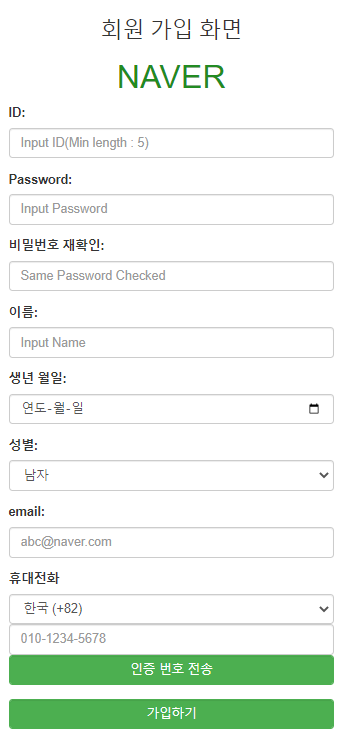
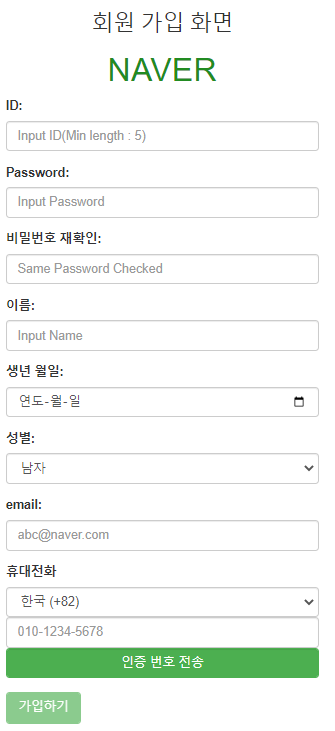
Uploade Day29.md

diff --git a/MultiCampus/Day28.md b/MultiCampus/Day28.md
@@ -6,11 +6,11 @@
 >
 > 
 
-## 1. AJAX
+## 1. AJAX ( Asynchronous JavaScript And XML )
    1. ### AJAX 란?
       
-      1. **비동기 방식** 으로 통신하는 방법
-      2. AJAX( Asynchronous JavaScript And XML )
+      1. **비동기 방식** 으로 통신하는 방법으로, 현재 화면을 유지하면서 특정 부분만 데이터를 받아와서 변경해준다. 
+      2. 
       3. 2005년에 만들어진 비동기 통신을 지원하는 새로운 방식이다. 
       4. 새로운 언어가 아닌 JavaScript에 추가된 통신 방식이다. 
       5. **화면 전체 (html파일) 를 재로드 하지 않고도 서버에서 특정 데이터를 송수신 할 수 있다. **
@@ -43,8 +43,8 @@
         
         function getdata(txt){
         	$.ajax({
-        		url:'search',//서버에게 data 변수 s로 데이터를 보낸다. 
-        		data:{'s':txt,},
+        		url:'search',
+        		data:{'s':txt,},//서버에게 data 변수 s로 데이터를 보낸다. 
         		success:function(data){
         			//연결에 성공하면 실행 data에는 controller에서 리턴한 값이 들어간다. 
         			display(data);
@@ -62,7 +62,17 @@
         
         ```
       
-      - 
+      - ```java
+        @RestController//AJAX 통신에 적합한 애너테이션 -> @Controller와 다름 
+        public class AJAXController {
+        	@RequestMapping("/gettime")
+        	public Object gettime() {
+        		Date d = new Date();
+        		SimpleDateFormat sdf = new SimpleDateFormat("yyyy-MM-dd hh:mm:ss");
+        		return "서버시간 " + sdf.format(d);
+        	}
+        }
+        ```
 
 ## 2. Project
 
@@ -73,6 +83,7 @@
          1. AJAX 를 사용하여 Database에 있는 아이디와 중복되면 실시간으로 사용할 수 없다는 문구를 띄워준다. 
          2. keyup 기능을 이용해 5글자 이상 들어가도록 한다. 
       3. password 확인란과 password가 다르다면  알려주는 문구를 나타낸다. 
+         1. 초기 register 버튼을 비활성화 시키고, 이후에 비밀번호 조건을 만족하면 버튼을 활성화 한다. 
 
    2. ### 코드
 
@@ -125,6 +136,46 @@
          
          
          $(document).ready(function(){
+         	$('#register').attr('disabled','disabled');// 버튼 막기 
+         	
+         	$('#id').keyup(function(){
+         		var id = $('#id').val();
+         		if(id.length < 5){
+         			$('#id_span').text('ID는 5글자 이상 입력해주세요.');
+         			$('#id_span').css('color','red');
+         			
+         		}else{
+         			checkID(id);
+         			
+         		}
+         	});
+         	
+         	$('#pwd').keyup(function(){// 비밀번호가 10자리 이상이면 못하게 막기 
+         		var pwd = $('#pwd').val();
+         		if(pwd.length < 10){
+         			$('#pwd_span').text('');
+         		}else{
+         			$('#pwd_span').text('10자리 미만으로 입력해 주세요');
+         			$('#pwd_span').css({'color':'red'});
+         		}
+         	});
+         	
+         	$('#samepwd').keyup(function(){
+         		var pwd = $('#pwd').val();
+         		var samepwd = $('#samepwd').val();
+         		
+         		if(pwd != samepwd){
+         			$('#samepwd_span').text('비밀번호가 다릅니다. ');
+         			$('#samepwd_span').css('color','red');
+         			$('#register').attr('disabled','disabled');//버튼 막기 
+         		}else{
+         			$('#samepwd_span').text('일치합니다. ');
+         			$('#samepwd_span').css('color','green');
+         			$('#register').removeAttr('disabled');// 버튼 활성화 
+         			
+         		}
+         		
+         	});
          	
          	$('#register').click(function(){
          		var pwd	= $('#pwd').val();
@@ -153,43 +204,9 @@
          		});
          		$('#register_form').submit();
          	});
-         	
-         	
-         	$('#id').keyup(function(){
-         		var id = $('#id').val();
-         		if(id.length < 5){
-         			$('#id_span').text('ID는 5글자 이상 입력해주세요.');
-         			$('#id_span').css('color','red');
-         			
-         		}else{
-         			checkID(id);
-         		}
-         	});
-         	
-         	$('#pwd').keyup(function(){// 비밀번호가 10자리 이상이면 못하게 막기 
-         		var pwd = $('#pwd').val();
-         		if(pwd.length < 10){
-         			$('#pwd_span').text('');
-         		}else{
-         			$('#pwd_span').text('10자리 미만으로 입력해 주세요');
-         			$('#pwd_span').css({'color':'red'});
-         		}
-         	});
-         	
-         	$('#samepwd').keyup(function(){
-         		var pwd = $('#pwd').val();
-         		var samepwd = $('#samepwd').val();
-         		
-         		if(pwd != samepwd){
-         			$('#samepwd_span').text('비밀번호가 다릅니다. ');
-         			$('#samepwd_span').css('color','red');
-         			
-         		}else{
-         			$('#samepwd_span').text('일치합니다. ');
-         			$('#samepwd_span').css('color','green');
-         		}
-         	});
          });
+         
+         
          </script>
          
          <h1>AJAX04 </h1>
@@ -257,11 +274,26 @@
          	</div>
          	
          	<div class="form-group">
-         	<button class="form-control" id="register"> 가입하기 </button>
+         	<button type="button" class="btn btn-success" id="register"> 가입하기 </button>
          	</div>
          	
          </form>
          </div>
+         
+         <!-- 
+         아이디(사용가능 여부 확인 )
+         비밀번호
+         비밀번호 재확인
+         이름
+         생년 월일 (년4글자) (월 선택) (일 선택)
+         성별 (select)
+         본인 확인 이매일
+         휴대전화 (대한민국 +82, 미국 +1) (전화번호 입력 |인증번호 받기 버튼)
+         가입하기 
+          -->
+         
+         
+         
          ```
 
    3. ### 결과물

diff --git a/MultiCampus/Day27.md b/MultiCampus/Day27.md
@@ -16,6 +16,7 @@
             $(d).each(function(index,item){
                 //index와 item이 자동으로 들어간다. 
                 //index는 몇번째인지, item에는 value 가 들어간다. 
+                // item 하나가 JSON 안에 있는 Object 를 가진다. 
                 txt += '<h3>';
                 txt += item.id + ' ' + item.name + ' ' + item.age;
                 txt += '</h3>';
@@ -29,9 +30,9 @@
             }
             
             ```
-
+   
       2. ### show() , hide(), fadeIn(), fadeOut()
-
+   
          - ```javascript
            //해당 컨텐츠를 화면에서 보여주거나 숨긴다. 
            $('#show').click(function(){
@@ -59,11 +60,11 @@
            });
            
            ```
-
+   
       3. ### keyup(), keydown()
-
+   
          - 키가 눌리거나 키를 땠을 떄 실행
-
+   
          - ```javascript
            $('#n1').keydown(function(){
                if($(this).val().length > 6 ){
@@ -84,9 +85,9 @@
            ```
    
       4. ### addClass() , removeClass
-
+   
          1. 태그에 클래스를 추가 삭제할 수 있다. 
-
+   
          2. ```javascript
             $('h1').hover(function(){
                 $(this).addClass('myclass');
@@ -94,19 +95,19 @@
                 $(this).removeClass('myclass');
             });
             ```
-
+   
       5. ### first(), last(), eq()
-
+   
          1. first
-
+   
             - 해당 태그들 중 천번째 태그를 선택
    
          2. last
    
             - 해당 태그들 중 마지막 태그를 선택 
-
+   
          3. eq
-
+   
             - 태그들중 특정 위치에 있는 태그만 선택 
    
          4. ```javascript
@@ -197,7 +198,7 @@
    ## 3. 객체의 삽입 삭제 
    
       1. ### 삽입
-
+   
          1. append
          2. prepend
          3. after

diff --git a/MultiCampus/Day29.md b/MultiCampus/Day29.md
@@ -1,0 +1,64 @@
+# 29일차
+
+------
+
+> AJAX 에대해 학습한다. 
+>
+> 
+
+1. AJAX
+
+   1. JSON 이용
+
+      1. [ { } , { } , { } ...] 의 형태를 가진다. 
+
+      2. ```java
+         @RequestMapping("/getdata")
+         public Object getdata() {//데이터를 JSON 형식으로 내려준다. 
+             JSONArray ja = new JSONArray();
+             //JSON : [{},{},{}] 의 형태
+             for(int i=0; i<6; i++) {
+                 JSONObject jo = new JSONObject();
+                 jo.put("id", "id01"+i);
+                 jo.put("name", "james" + i);
+                 jo.put("age", 30+i);
+                 ja.add(jo);
+             }
+             return ja;
+         }
+         ```
+
+   2. 차트 이용
+
+      1. ```html
+         function display(){
+         	const chart = Highcharts.chart('container', {//container영역에 뿌린다. 
+         	    title: {
+         	        text: 'Chart.update'
+         	    },
+         	    subtitle: {
+         	        text: 'Plain'
+         	    },
+         	    xAxis: {
+         	        categories: ['Jan', 'Feb', 'Mar', 'Apr', 'May', 'Jun', 'Jul', 'Aug', 'Sep', 'Oct', 'Nov', 'Dec']
+         	    },
+         	    series: [{//JSON 형식 
+         	        type: 'column',
+         	        colorByPoint: true,
+         	        data: [29.9, 71.5, 106.4, 129.2, 144.0, 176.0, 135.6, 148.5, 216.4, 194.1, 95.6, 54.4],
+         	        // 이 데이터를 뿌린다. 
+         	        showInLegend: false
+         	    }]
+         	});
+         ```
+
+      2. 
+
+2. 유용한 사이트
+
+   1. [highcharts](https://www.highcharts.com/)
+      1. 차트 그리는 곳 
+      2. 사용방법 
+         1. Demos -> Highcharts JS Demos -> 원하는 차트 선택 -> EDIT IN JSFIDDLE -> \<script> 태그 복사 
+         2. 
+   2. 

diff --git a/MultiCampus/Day24.md b/MultiCampus/Day24.md
@@ -50,7 +50,9 @@
 
       
 
-   2. main.html 파일에 \<html xmlns:th="http://www.thymeleaf.org"> 을 추가한다. 
+   2. thymeleaf 파일 만들기
+
+            1. .html 파일에 \<html xmlns:th="http://www.thymeleaf.org"> 을 추가한다. 
 
    3. controller가 String 형을 리턴하면 **templates 파일 바로 밑에있는 html파일**을 찾는다. 
 
